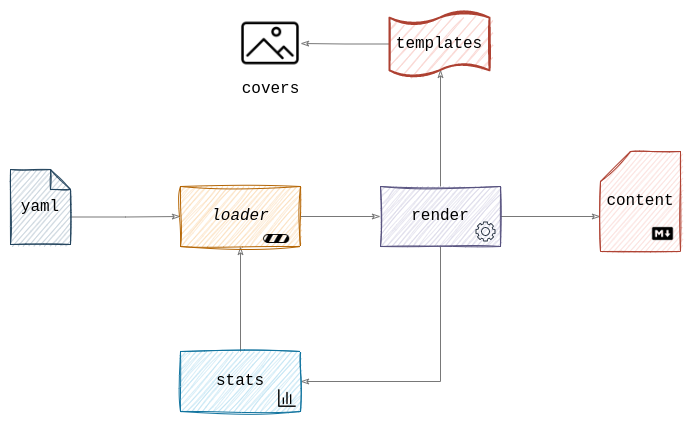
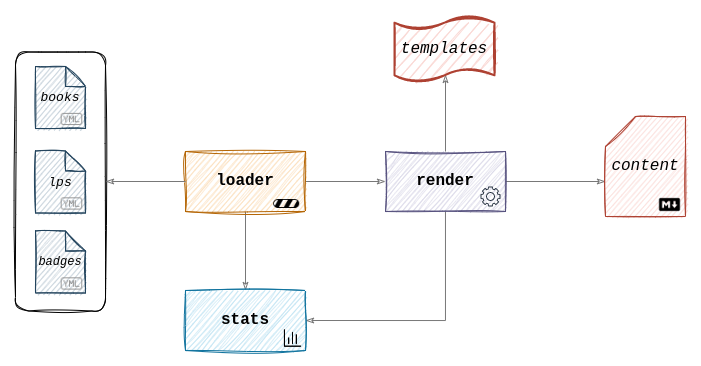
refactor package models

Changed region(s): [[0.0, 0.0, 1.0, 0.9918], [0.0304, 0.1202, 0.152, 0.1803], [0.0, 0.8115, 0.0304, 0.8415]]

diff --git a/main.go b/main.go
@@ -11,7 +11,8 @@ import (
 
 	"github.com/enribd/choose-your-own-it-readventure/config"
 	"github.com/enribd/choose-your-own-it-readventure/internal/content"
-	"github.com/enribd/choose-your-own-it-readventure/internal/sources"
+	"github.com/enribd/choose-your-own-it-readventure/internal/loader"
+	"github.com/enribd/choose-your-own-it-readventure/internal/models"
 	"github.com/enribd/choose-your-own-it-readventure/internal/stats"
 
 	"github.com/Masterminds/sprig/v3"
@@ -20,7 +21,6 @@ import (
 
 var debug bool
 var contents string
-var totalSkippedBooks int
 
 func main() {
 	flag.BoolVar(&debug, "debug", false, "Enable debug mode (default: false).")
@@ -39,7 +39,7 @@ func main() {
 	stats.New()
 
 	// Load books and learning paths raw content from yaml files
-	err = sources.Load(config.Cfg.Sources.BookData, config.Cfg.Sources.LearningPaths)
+	err = loader.Load(config.Cfg.Sources.BookData, config.Cfg.Sources.LearningPaths)
 	if err != nil {
 		log.Fatalln(err)
 		return
@@ -62,8 +62,8 @@ func main() {
 	// Prepare template rendering data
 	var data = struct {
 		LpData              map[string]interface{}
-		BooksData           map[string]sources.Book
-		AuthorsData         map[string][]sources.Book
+		BooksData           map[string]models.Book
+		AuthorsData         map[string][]models.Book
 		BadgesData          map[string]interface{}
 		BookCovers          string
 		LearningPathsFolder string
@@ -71,12 +71,12 @@ func main() {
 		AuthorIndex         string
 		Stats               stats.Stats
 		// used only when rendering the learning paths template
-		LpBooksData         []sources.Book
-		CurrentLearningPath sources.LearningPath
+		LpBooksData         []models.Book
+		CurrentLearningPath models.LearningPath
 	}{
-		LpData:              sources.LearningPathsTmpl,
-		BooksData:           sources.Books,
-		AuthorsData:         sources.Authors,
+		LpData:              loader.LearningPathsTmpl,
+		BooksData:           loader.Books,
+		AuthorsData:         loader.Authors,
 		BadgesData:          badgesData,
 		BookCovers:          config.Cfg.Sources.BookCovers,
 		LearningPathsFolder: config.Cfg.Content.LearningPaths,
@@ -95,16 +95,16 @@ func main() {
 	file := "stdout" // if in debug mode spit to stdout
 
 	if slices.Contains(contents, "learning-paths") {
-		for _, lp := range sources.LearningPaths {
+		for _, lp := range loader.LearningPaths {
 			// Render learning paths that are only marked as either stable, new or in-progress, and have at least 1 book
-			if lp.Status != "coming-soon" && len(sources.LearningPathBooks[lp.Ref]) > 0 {
+			if lp.Status != "coming-soon" && len(loader.LearningPathBooks[lp.Ref]) > 0 {
 				data.CurrentLearningPath = lp
-				data.LpBooksData = sources.LearningPathBooks[lp.Ref]
+				data.LpBooksData = loader.LearningPathBooks[lp.Ref]
 
 				if !debug {
 					file = filepath.Join(config.Cfg.Content.LearningPaths, fmt.Sprintf("%s.md", lp.Ref))
 				}
-				log.Printf("rendering '%s' learning path in %s (%d books)", lp.Ref, file, len(sources.LearningPathBooks[lp.Ref]))
+				log.Printf("rendering '%s' learning path in %s (%d books)", lp.Ref, file, len(loader.LearningPathBooks[lp.Ref]))
 
 				if err = content.Render(templates, "learning-path.md.tmpl", file, data); err != nil {
 					log.Fatalln(err)

diff --git a/internal/loader/loader.go b/internal/loader/loader.go
@@ -1,4 +1,4 @@
-package sources
+package loader
 
 import (
 	"io/ioutil"
@@ -6,26 +6,27 @@ import (
 	"path/filepath"
 	"sort"
 
+	"github.com/enribd/choose-your-own-it-readventure/internal/models"
 	"github.com/enribd/choose-your-own-it-readventure/internal/stats"
 
 	"gopkg.in/yaml.v3"
 )
 
 // LearningPaths["ref"] = LearningPath{}
-var LearningPaths map[string]LearningPath = make(map[string]LearningPath)
+var LearningPaths map[string]models.LearningPath = make(map[string]models.LearningPath)
 
 // This structure is the same as LearningPaths but type agnostic, used in
 // template data because it only allows map[string]interface{} types
 var LearningPathsTmpl map[string]interface{} = make(map[string]interface{})
 
 // Books["title"] = Book{}
-var Books map[string]Book = make(map[string]Book)
+var Books map[string]models.Book = make(map[string]models.Book)
 
 // Authors["name"] = []Book{}
-var Authors map[string][]Book = make(map[string][]Book)
+var Authors map[string][]models.Book = make(map[string][]models.Book)
 
 // LearningPathBooks["ref"] = []Book{}
-var LearningPathBooks map[LearningPathRef][]Book = make(map[LearningPathRef][]Book)
+var LearningPathBooks map[models.LearningPathRef][]models.Book = make(map[models.LearningPathRef][]models.Book)
 
 func Load(booksPath, lpsPath string) error {
 	err := loadBooks(booksPath)
@@ -50,7 +51,7 @@ func loadBooks(basepath string) error {
 	}
 
 	// Load the content of the files and populate the Books var
-	var content []Book
+	var content []models.Book
 	for _, f := range files {
 		log.Printf("book files %s\n", files)
 		content, err = loadBooksFile(f)
@@ -113,7 +114,7 @@ func loadLearningPaths(basepath string) error {
 	log.Printf("learning path files %s\n", files)
 
 	// Load the content of the files and populate the Books var
-	var content []LearningPath
+	var content []models.LearningPath
 	for _, f := range files {
 		content, err = loadLearningPathsFile(f)
 		if err != nil {
@@ -144,8 +145,8 @@ func getFiles(basepath string) ([]string, error) {
 	return files, err
 }
 
-func loadBooksFile(path string) ([]Book, error) {
-	var content []Book
+func loadBooksFile(path string) ([]models.Book, error) {
+	var content []models.Book
 
 	// Read the file
 	raw, err := ioutil.ReadFile(path)
@@ -162,8 +163,8 @@ func loadBooksFile(path string) ([]Book, error) {
 	return content, nil
 }
 
-func loadLearningPathsFile(path string) ([]LearningPath, error) {
-	var content []LearningPath
+func loadLearningPathsFile(path string) ([]models.LearningPath, error) {
+	var content []models.LearningPath
 
 	// Read the file
 	raw, err := ioutil.ReadFile(path)

diff --git a/internal/models/book.go b/internal/models/book.go
@@ -1,20 +1,6 @@
-package sources
+package models
 
-type LearningPathRef string
 type BadgeRef string
-type Tag string
-
-type LearningPath struct {
-	Name      string            `yaml:"name"`
-	Ref       LearningPathRef   `yaml:"ref"`
-	Status    string            `yaml:"status"`
-	Desc      string            `yaml:"desc"`
-	Summary   string            `yaml:"summary"`
-	Related   []LearningPathRef `yaml:"related,omitempty"`
-	Suggested []LearningPathRef `yaml:"suggested,omitempty"`
-	Tags      []Tag             `yaml:"tags,omitempty"`
-	Logo      Logo              `yaml:"logo,omitempty"`
-}
 
 type Book struct {
 	Cover             string            `yaml:"cover"`
@@ -30,10 +16,4 @@ type Book struct {
 	Desc              string            `yaml:"desc"`
 	LearningPathsRefs []LearningPathRef `yaml:"learning_paths"`
 	BadgesRefs        []BadgeRef        `yaml:"badges"`
-}
-
-type Logo struct {
-	Source string `yaml:"source"`
-	Height string `yaml:"height,omitempty"`
-	Width  string `yaml:"width,omitempty"`
 }

diff --git a/internal/models/learning-path.go b/internal/models/learning-path.go
@@ -1,0 +1,23 @@
+package models
+
+type LearningPathRef string
+
+type Tag string
+
+type Logo struct {
+	Source string `yaml:"source"`
+	Height string `yaml:"height,omitempty"`
+	Width  string `yaml:"width,omitempty"`
+}
+
+type LearningPath struct {
+	Name      string            `yaml:"name"`
+	Ref       LearningPathRef   `yaml:"ref"`
+	Status    string            `yaml:"status"`
+	Desc      string            `yaml:"desc"`
+	Summary   string            `yaml:"summary"`
+	Related   []LearningPathRef `yaml:"related,omitempty"`
+	Suggested []LearningPathRef `yaml:"suggested,omitempty"`
+	Tags      []Tag             `yaml:"tags,omitempty"`
+	Logo      Logo              `yaml:"logo,omitempty"`
+}

diff --git a/docs/README.md b/docs/README.md
@@ -7,13 +7,13 @@ I made this simple application to make easier adding content avoiding the toil o
 ## Architecture
 
 Components:
-- core:
-  - **loader**: reads the `yaml` files and load the data in go structures.
+- *input*:
+  - **yaml** files: contains all books, learning paths and badges information.
+- *core*:
+  - **loader**: reads the `yaml` files and load the data into go structs.
   - **stats**: keeps count of books, authors and learning paths.
-  - **render**: uses the loaded data, the book `covers` and the stats to render the `templates` and produce the final markdown `content`.
-- other:
-  - **yaml** files: contains all book and learning path information.
-  - book **covers**: just that, covers to make things fancy.
+  - **render**: uses the loaded data, the stats and the assets (book covers, icons, etc) to render the `templates` and produce the final markdown `content`.
+- *output*:
   - **content** files: the result of the rendering process in markdown format.
  
 <p align="center">
